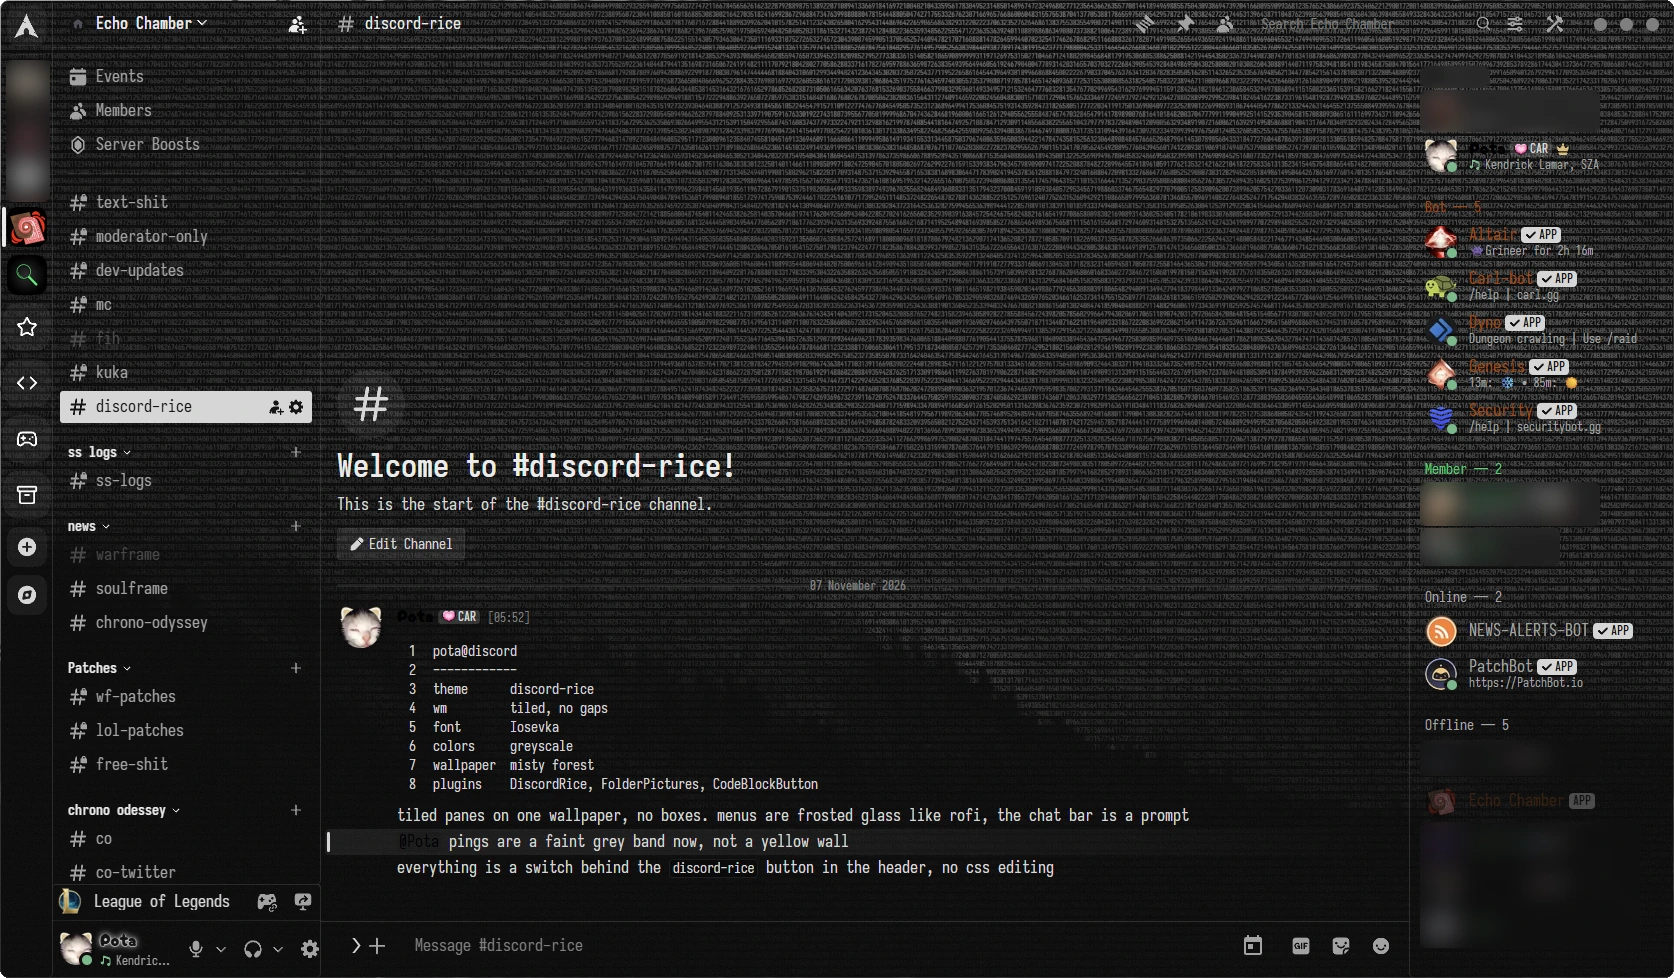
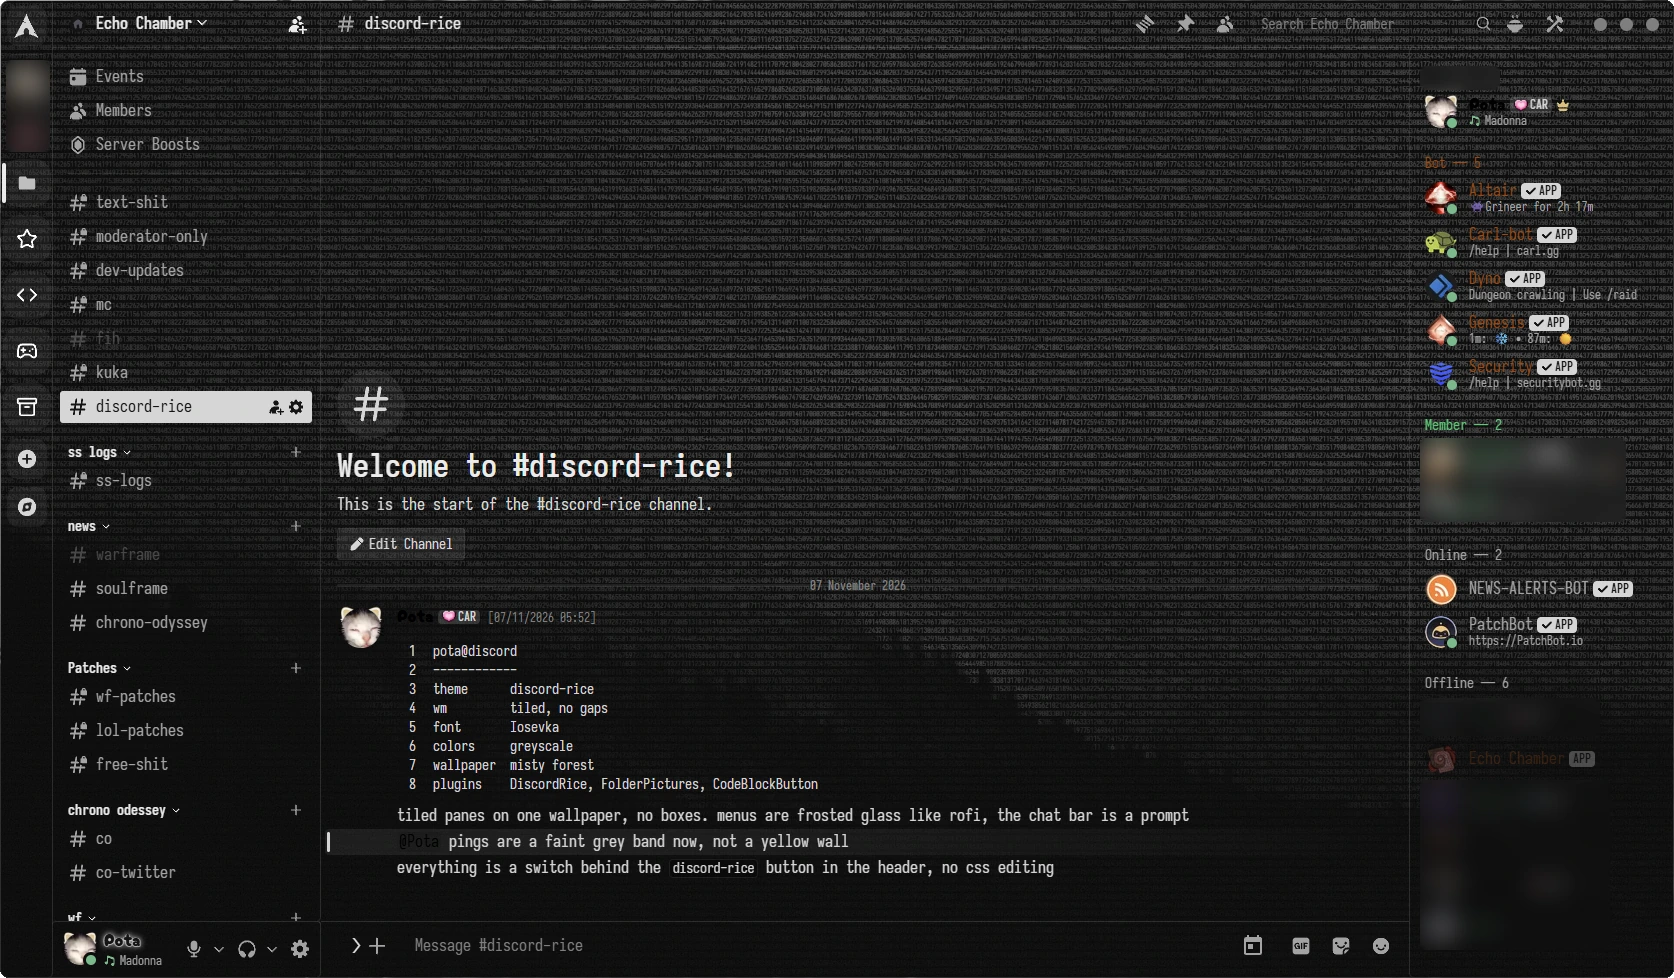
Retake the ASCII wallpaper and folder-menu screenshots
Both showed the old sliders header button and the settings cog against
the panel edge. The notices line about midnight now matches the README.

diff --git a/THIRD_PARTY_NOTICES.md b/THIRD_PARTY_NOTICES.md
@@ -4,7 +4,7 @@ discord-rice is licensed under the GPL-3.0-or-later (see `LICENSE`). It builds o
 
 ## midnight-discord
 
-The theme loads midnight's hosted build and follows the structure of its theme file. https://github.com/refact0r/midnight-discord
+The theme loads midnight's hosted build underneath for its layout plumbing, and its options block follows the layout of midnight's theme file. https://github.com/refact0r/midnight-discord
 
 ```
 MIT License
